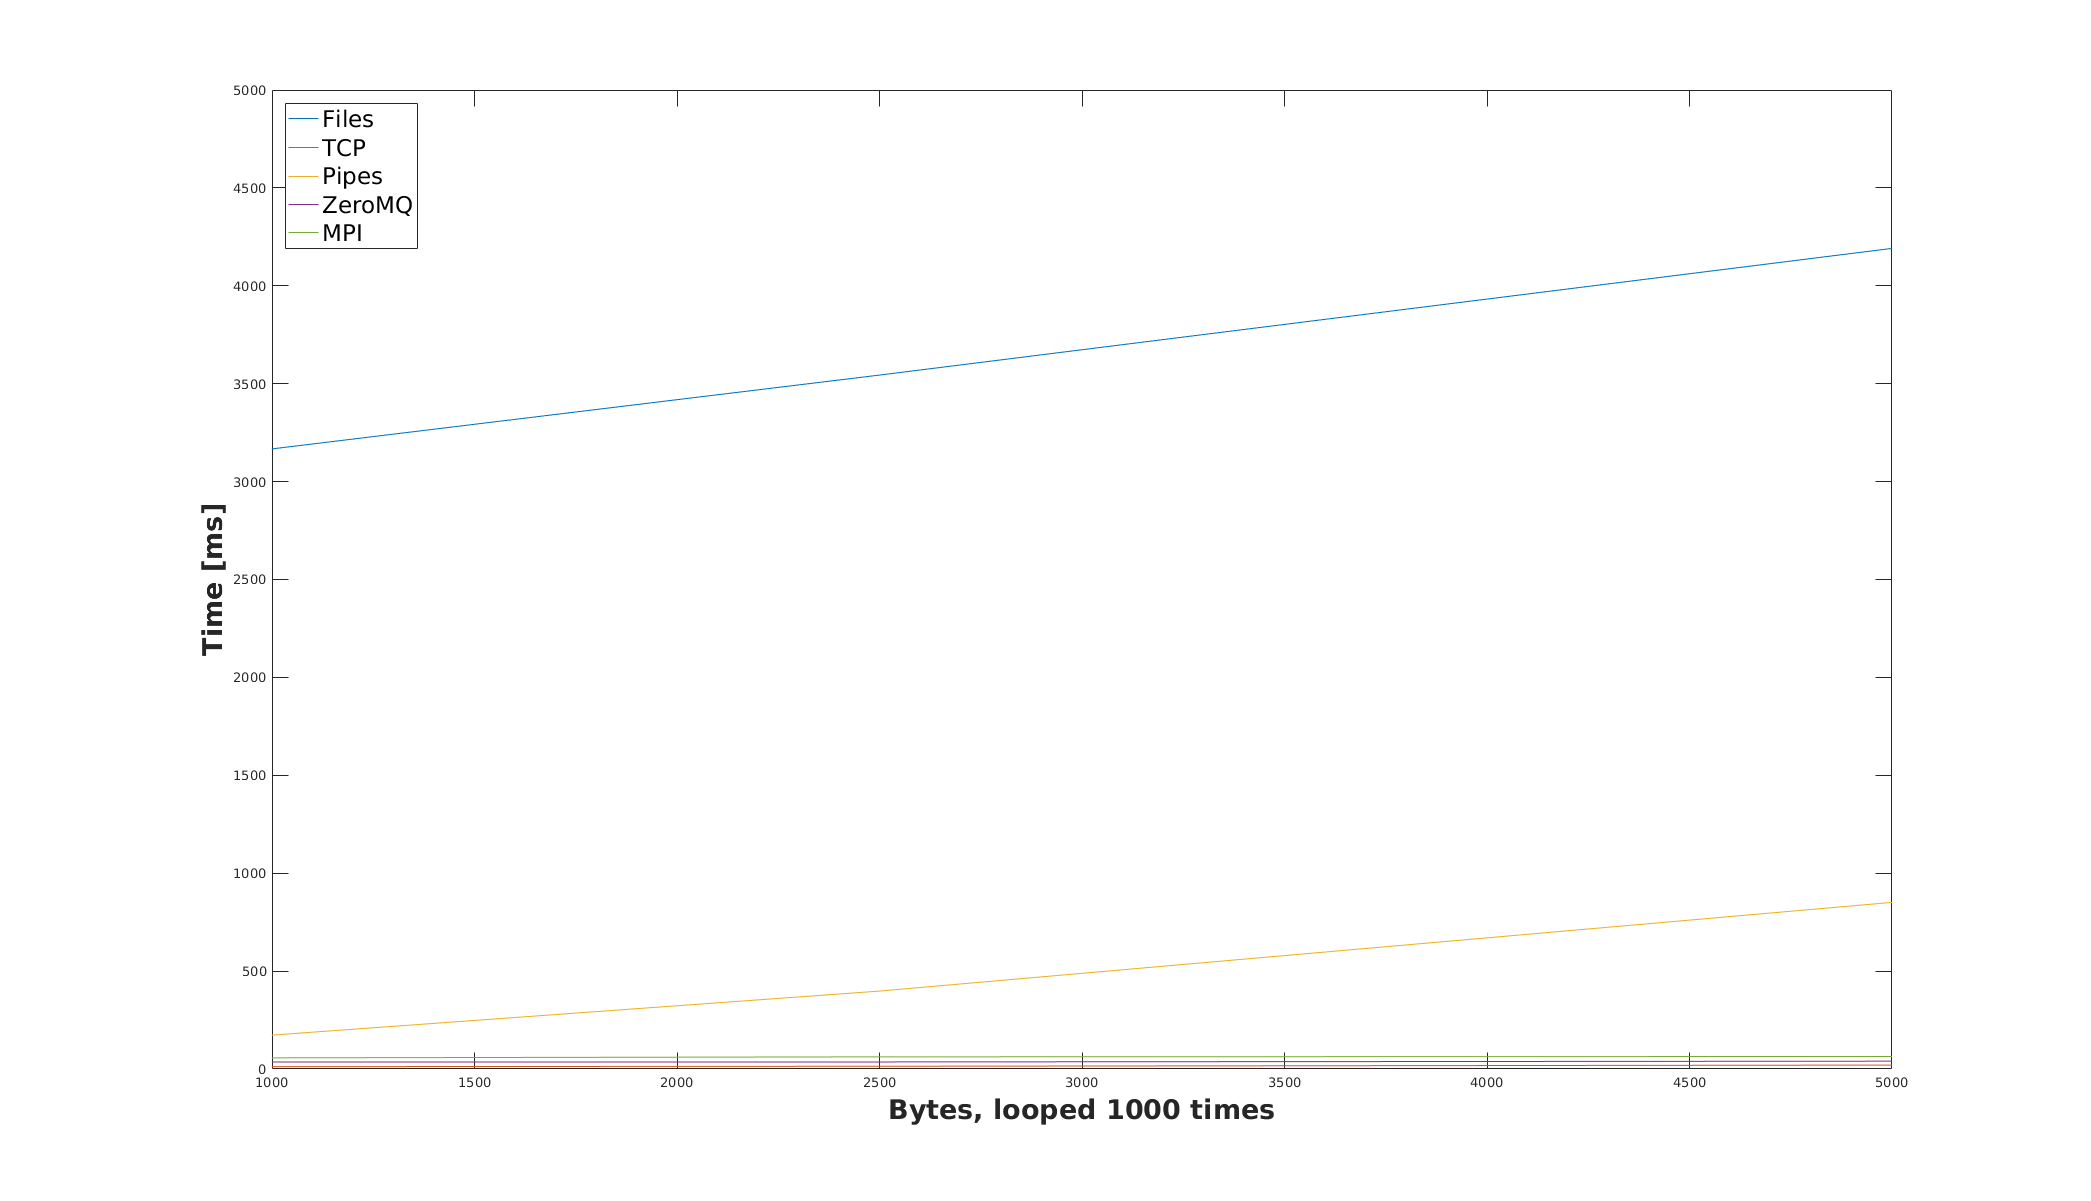
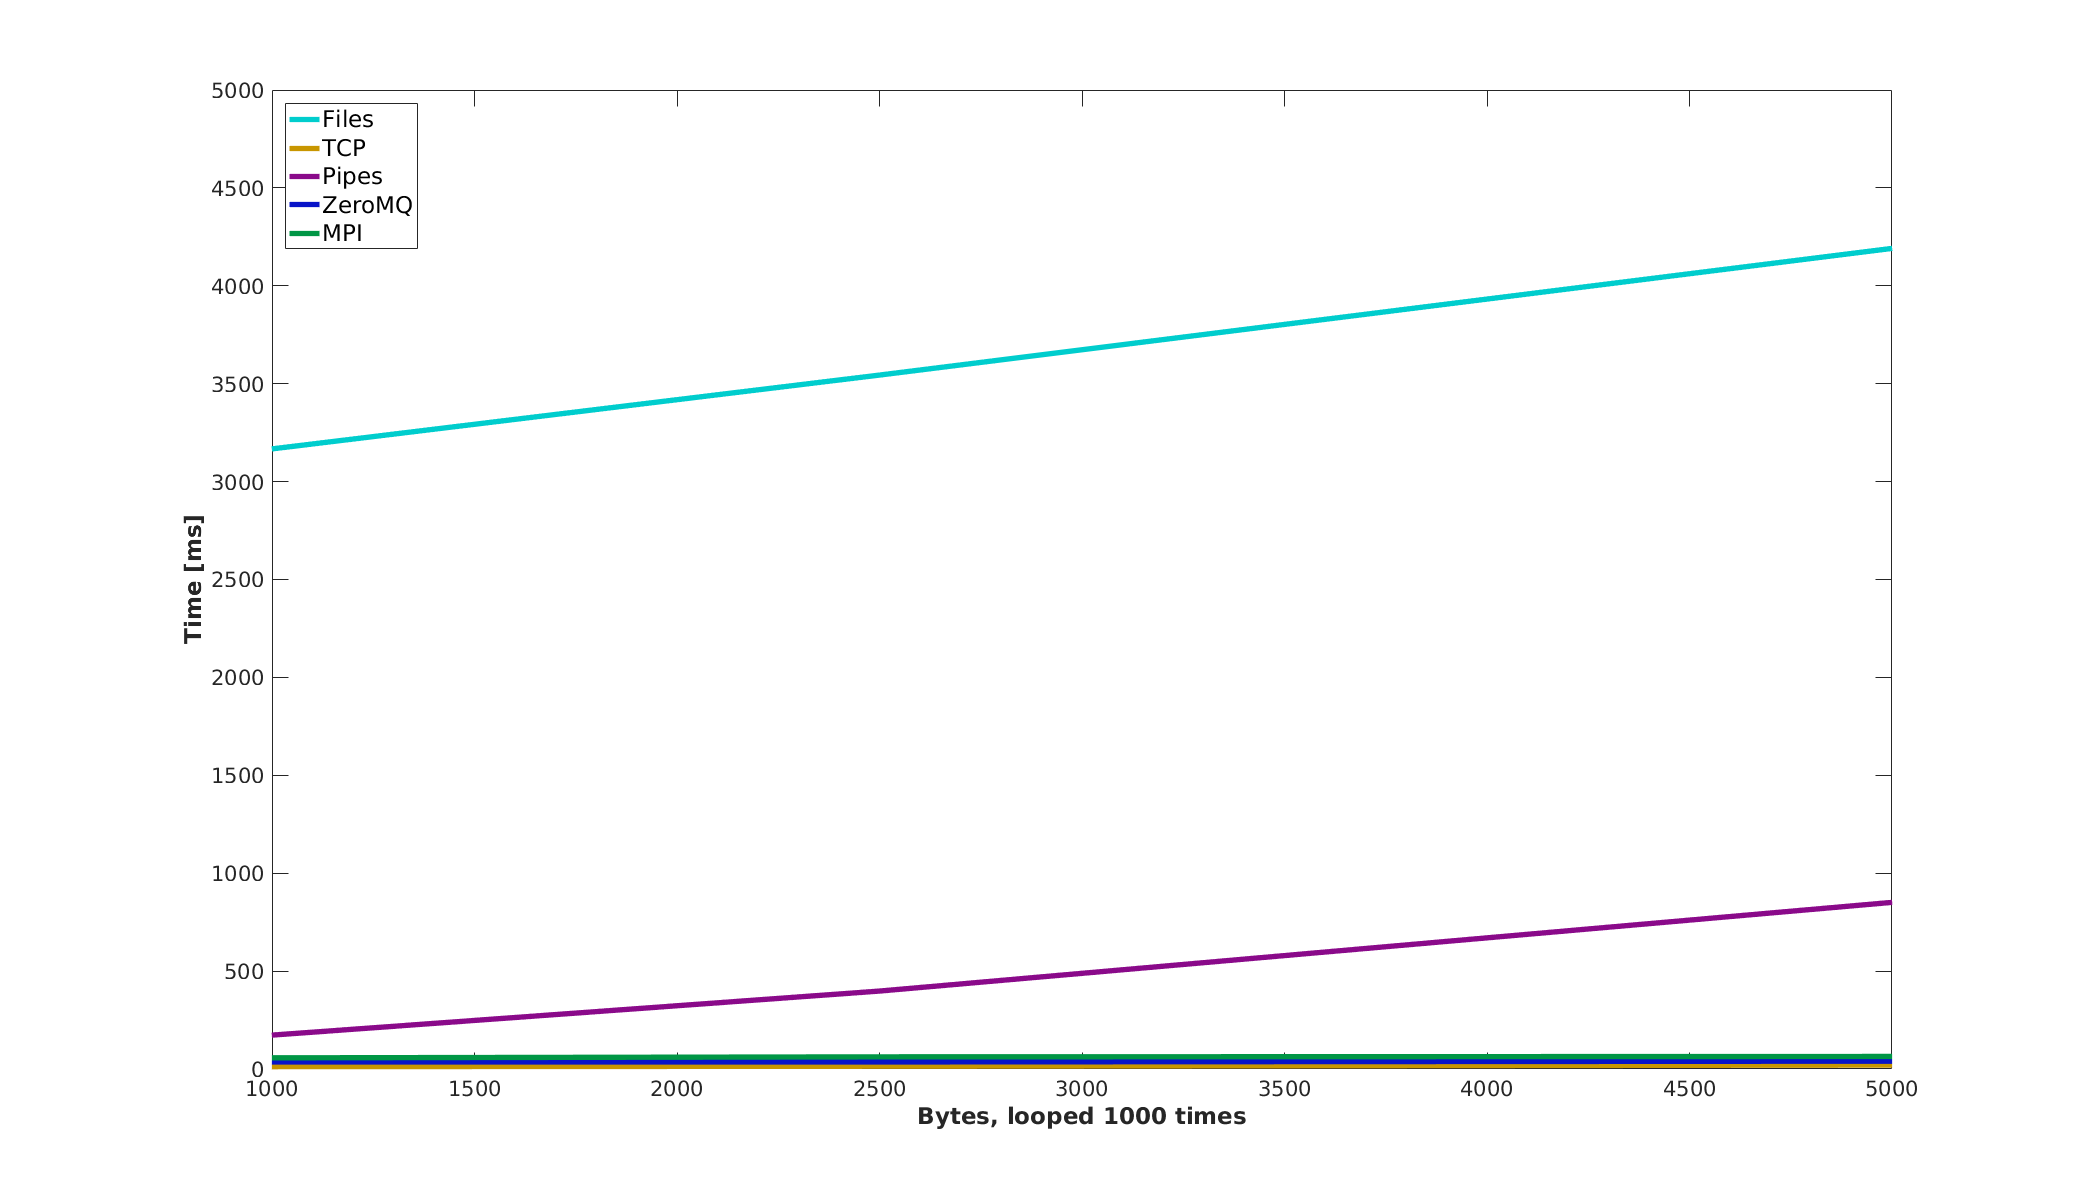
Fixed the right picture, with fatter lines etc.

diff --git a/presentation/main.tex b/presentation/main.tex
@@ -78,7 +78,7 @@
     \begin{frame}
     \begin{figure}[h!]
         \centering
-        \includegraphics[width=1\columnwidth]{thousandrun+files}
+        \includegraphics[width=1\columnwidth]{thousandrun+files-nf}
     \end{figure}
     \end{frame}
 %%
